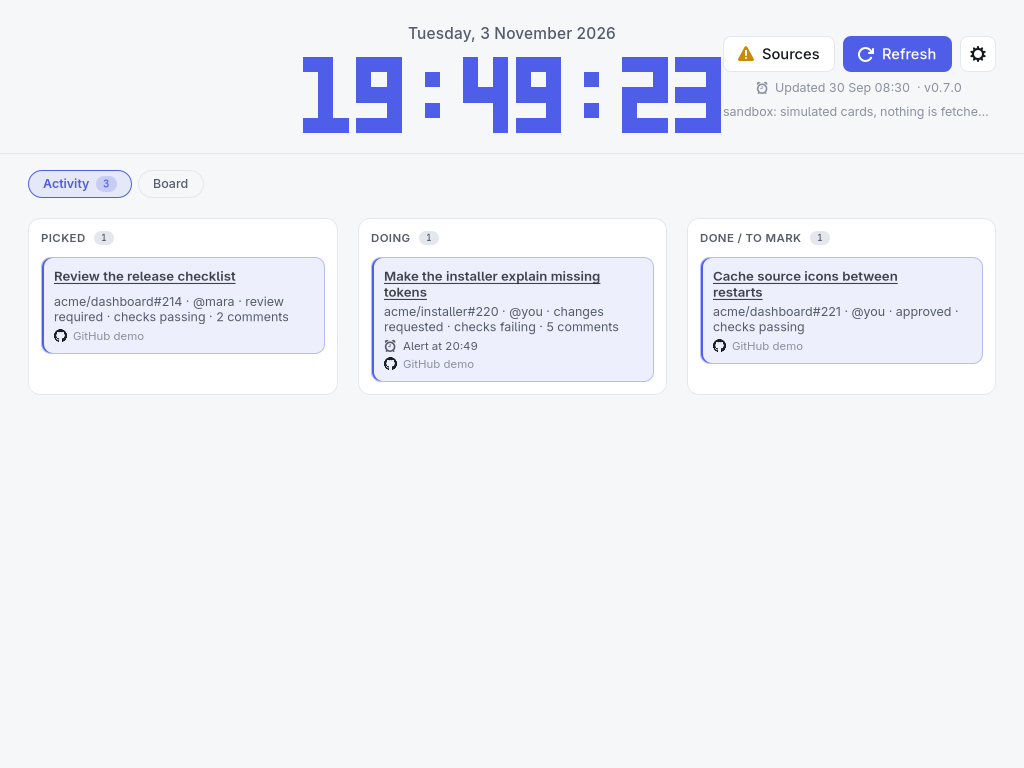
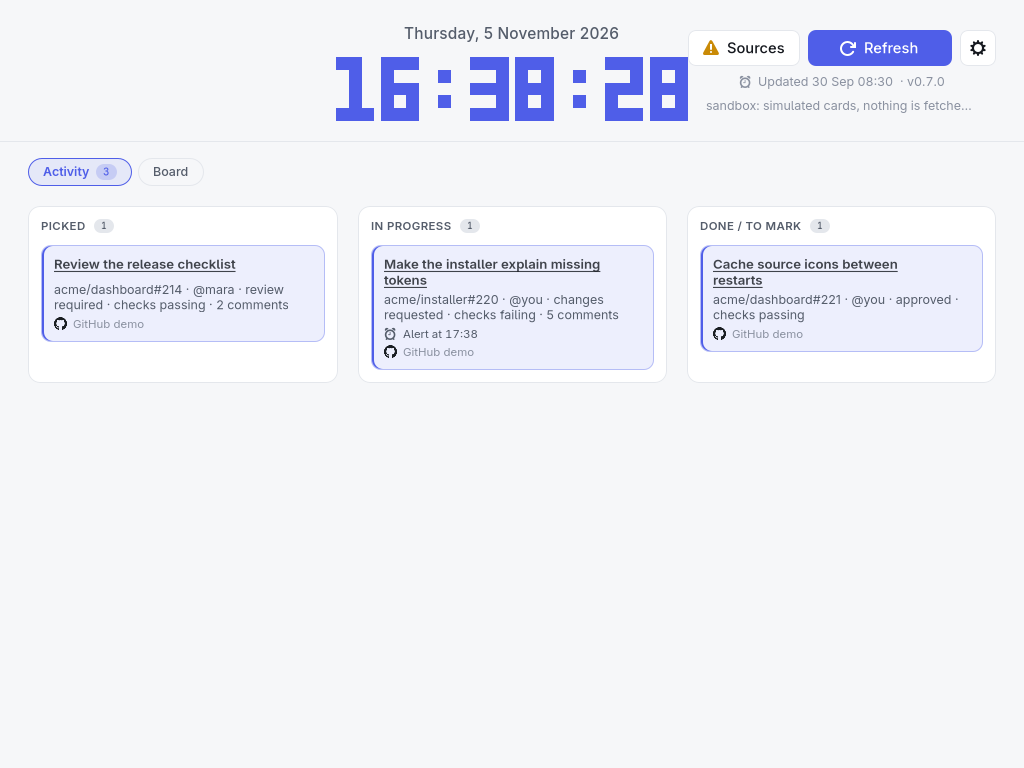
docs: Omarchy theme, In Progress, steady Refresh
The design notes give the palette mixed from an Omarchy theme and the
Refresh button's fixed width, the operations guide and the README the
Theme setting and the renamed stage, and the changelog opens an
Unreleased section. The README pictures are taken again, with one of
the window in a made-up Omarchy theme, which make screenshots now takes.

diff --git a/docs/operations.md b/docs/operations.md
@@ -131,17 +131,17 @@ It shows events that are not over yet, starting within 30 days, at most 25, soon
 
 ## The Window
 
-`tasks-pending` opens the window. It reads the dashboard from the daemon at `http://127.0.0.1:61000` (`--daemon` for another address); when nothing answers there, it starts the sources itself on a loopback port of its own (`--no-daemon` does that on purpose) and the line under the controls says so. `tasks-pending sandbox` opens it over simulated cards and a sample weather, with nothing fetched: every kind of source on two boards, one source degraded on purpose, three cards already along the stages of the Activity and two todos written down; `--screenshot <file>` pictures it and closes, and `--scene` picks what the picture shows (`activity`, the default, `light`, `board`, `sources`, `settings`, `snoozed` or `todo`).
+`tasks-pending` opens the window. It reads the dashboard from the daemon at `http://127.0.0.1:61000` (`--daemon` for another address); when nothing answers there, it starts the sources itself on a loopback port of its own (`--no-daemon` does that on purpose) and the line under the controls says so. `tasks-pending sandbox` opens it over simulated cards and a sample weather, with nothing fetched: every kind of source on two boards, one source degraded on purpose, three cards already along the stages of the Activity and two todos written down; `--screenshot <file>` pictures it and closes, and `--scene` picks what the picture shows (`activity`, the default, `light`, `omarchy` (a made-up Omarchy theme), `board`, `sources`, `settings`, `snoozed` or `todo`).
 
 A big clock sits at the top: the date, then the local time as `HH:MM:SS` in block digits (the "bricks" font of clock-tui), redrawn each second on its own. Next to it are the **Sources**, **Refresh** and settings (gear) buttons, with the time of the last data fetch and the running version (e.g. `v0.6.0`) below them, then `· N snoozed` while cards are snoozed and `· vX.Y.Z available` when the daemon has seen a newer release. There is no header bar: the window is the dashboard.
 
 On Omarchy, a small weather widget sits on the other side of the clock: an icon for the current condition, the temperature, and below them the place and the wind, as `omarchy-weather-status` reports them (set the place with `omarchy-weather-location --set <name>`). It is optional context: it is not shown at all when weather is unavailable (another system, no network, the commands failing), and it leaves windows narrower than 1440 px, so it never takes room from the clock. The window asks the daemon for it on open, every 10 minutes while shown, and when it comes back from being suspended by the compositor.
 
-Under the clock are two tabs: **Activity**, which the window opens on and which counts its cards, and **Board**. On the Board the groups sit side by side in config order, each labelled with its board, wrapping onto more rows when the window is narrow. Inside a group, stacks sit one above another; clicking a stack's name collapses it to its name and count, and clicking again opens it. The gear opens **Settings**: an optional board filter (All, or one board), and a switch for every board, group and stack to show or hide it (hiding a board or group greys out the switches inside it, which keep their own setting). A group whose stacks are all hidden disappears. **Auto-refresh** makes the window ask the daemon to refresh every source every 1 (the default), 5, 15 or 30 minutes, or never; it pauses while the window is suspended, and a source already refreshing finishes before it starts again, so Plane still gets one request at a time. The gear shows a dot while a filter or hidden item is in effect. These choices are remembered in `$XDG_STATE_HOME/tasks-pending/app-view.json` (`~/.local/state` when it is unset); the sandbox and `--screenshot` start from the defaults and save nothing there. Empty stacks are hidden: a button at the right of the group header tells how many there are and shows them, with the source's last fetch time. Stacks show their first five cards, with a button for the rest. Cards show the title (a link when the source has one, opened in the default browser) and at most two lines of the details the source writes, which include the due or event time (the full text is in the tooltip). Each group shows its source's `icon`, fetched by the window, falling back to a generic one.
+Under the clock are two tabs: **Activity**, which the window opens on and which counts its cards, and **Board**. On the Board the groups sit side by side in config order, each labelled with its board, wrapping onto more rows when the window is narrow. Inside a group, stacks sit one above another; clicking a stack's name collapses it to its name and count, and clicking again opens it. The gear opens **Settings**: an optional board filter (All, or one board), and a switch for every board, group and stack to show or hide it (hiding a board or group greys out the switches inside it, which keep their own setting). A group whose stacks are all hidden disappears. **Auto-refresh** makes the window ask the daemon to refresh every source every 1 (the default), 5, 15 or 30 minutes, or never; it pauses while the window is suspended, and a source already refreshing finishes before it starts again, so Plane still gets one request at a time. **Theme** picks the colours: **TasksPending**, the window's own (the default: dark, or light when the system asks), or **Omarchy**, which follows the theme Omarchy applied, read from `~/.local/state/omarchy/current/theme/colors.toml` (`~/.config/omarchy/current/theme` on Omarchy 3). It is dark or light as the theme says, and changes with it when you switch themes in Omarchy. When there is no theme to read, the window keeps its own colours and Settings says why. The sandbox starts with its own colours too; picking Omarchy in its Settings reads your theme like the real window does. The gear shows a dot while a filter or hidden item is in effect. These choices are remembered in `$XDG_STATE_HOME/tasks-pending/app-view.json` (`~/.local/state` when it is unset); the sandbox and `--screenshot` start from the defaults and save nothing there. Empty stacks are hidden: a button at the right of the group header tells how many there are and shows them, with the source's last fetch time. Stacks show their first five cards, with a button for the rest. Cards show the title (a link when the source has one, opened in the default browser) and at most two lines of the details the source writes, which include the due or event time (the full text is in the tooltip). Each group shows its source's `icon`, fetched by the window, falling back to a generic one.
 
 Source health is behind the **Sources** button, which opens a dialog with each source's board, status, last fetch and failure reason, plus a config error when the saved config was not reloaded. The button shows a warning icon when any source is degraded or failed, or the config has an error.
 
-Every card has a three-dot button (shown when the pointer is on the card; the keyboard reaches it too) that opens its menu, which holds every action. **Send to Activity** marks the card as in progress: it stays in its stack, highlighted, and appears on the **Activity** tab; **Remove from Activity** unmarks it. Activity is a board of three stages, **Picked**, **Doing** and **Done / to mark**: a card arrives at Picked, and its menu on that tab moves it to the next stage or back. Activity shows every marked card whatever the board filter and hidden items, with no limit, and when nothing is marked it says so with a link to the Board. Marks are kept by the daemon in `$XDG_STATE_HOME/tasks-pending/marks.json` (next to the cache), so they survive restarts. A mark is dropped on its own when its card is gone after a clean refresh of its source that finished after the card was marked (the item was done elsewhere); while the source is failing, refreshing or showing old data, the mark is kept, and so is the mark of a card that a stack's `exclude` patterns hide. Marks of a source that is not on the dashboard (switched off, or absent from the config in use) are kept for a month, so they are back when the source is. Deleting `marks.json` clears every mark. The stage is the window's own choice: it is kept in `app-view.json` beside the other choices, and dropped when the mark goes, so a card marked again starts at Picked. The tab is not remembered: the window always opens on Activity.
+Every card has a three-dot button (shown when the pointer is on the card; the keyboard reaches it too) that opens its menu, which holds every action. **Send to Activity** marks the card as in progress: it stays in its stack, highlighted, and appears on the **Activity** tab; **Remove from Activity** unmarks it. Activity is a board of three stages, **Picked**, **In Progress** and **Done / to mark**: a card arrives at Picked, and its menu on that tab moves it to the next stage or back. Activity shows every marked card whatever the board filter and hidden items, with no limit, and when nothing is marked it says so with a link to the Board. Marks are kept by the daemon in `$XDG_STATE_HOME/tasks-pending/marks.json` (next to the cache), so they survive restarts. A mark is dropped on its own when its card is gone after a clean refresh of its source that finished after the card was marked (the item was done elsewhere); while the source is failing, refreshing or showing old data, the mark is kept, and so is the mark of a card that a stack's `exclude` patterns hide. Marks of a source that is not on the dashboard (switched off, or absent from the config in use) are kept for a month, so they are back when the source is. Deleting `marks.json` clears every mark. The stage is the window's own choice: it is kept in `app-view.json` beside the other choices, and dropped when the mark goes, so a card marked again starts at Picked. The tab is not remembered: the window always opens on Activity.
 
 On the Board, the menu's **Snooze** entry offers **1 hour**, **Tomorrow** (the next day at 8:00, local time), **Next week** (the next Monday at 8:00; on a Monday, the following one) and **Until it changes**. Whatever the choice, a snoozed card comes back early when its item changes (its last update moves), so snoozing never hides news. Nothing is written to the provider. While cards are snoozed, the quiet `N snoozed` link after the update time opens the list, where **Wake** brings a card back now. Snoozes are kept by the daemon in `$XDG_STATE_HOME/tasks-pending/snoozes.json` and forgotten when the card is finished elsewhere, like marks. A snoozed card keeps its mark, and its stage, and is back on Activity when it wakes.
 
@@ -151,9 +151,9 @@ The Board's first group is **Todo**, for things that come from no source. **New*
 
 A small dot before a card's title means the item changed since you last looked, and the same dot after a stack's count means the stack holds such a card (also when it is collapsed or the card is behind "Show more"). There is no count and no label. "Looking" is doing something in the window: a click, a key, scrolling. Opening the window counts; the pointer merely crossing it, or the window taking focus under it, does not, so the dots are not cleared by accident. When you come back after 10 minutes or more without activity, the dots show what changed since your previous activity; cards that change while you keep using the window get a dot too, and all of them clear the next time you return. A change counts from the moment the dashboard fetched it: an item that changed just before you left, but that its source only refreshed after, is flagged on your return, because it was never on screen. The daemon keeps these times in `$XDG_STATE_HOME/tasks-pending/looks.json`. Activity is reported at most once a minute.
 
-The window reads `/api/v1/snapshot` every 15 seconds while it is not suspended and redraws only when something changed, keeping the scroll position. If the daemon stops answering after a successful load, the last cards stay on screen under a notice. The Refresh button calls `POST /api/v1/refresh` and reads the snapshot again two seconds later. When the daemon refused a refresh you asked for, the button says how long to wait, or a note under the controls says why; a refused auto-refresh shows nothing and is tried again at its next turn. A change that the daemon refuses (a mark that could not be saved, a snooze in the past) shows for a few seconds under the controls.
+The window reads `/api/v1/snapshot` every 15 seconds while it is not suspended and redraws only when something changed, keeping the scroll position. If the daemon stops answering after a successful load, the last cards stay on screen under a notice. The Refresh button calls `POST /api/v1/refresh` and reads the snapshot again two seconds later. When the daemon refused a refresh you asked for, the button says how long to wait (it keeps its width whatever it says), or a note under the controls says why; a refused auto-refresh shows nothing and is tried again at its next turn. A change that the daemon refuses (a mark that could not be saved, a snooze in the past) shows for a few seconds under the controls.
 
-The window is dark unless the system asks for light, with its own palette either way, the system's interface font, and the symbolic icons of the icon theme.
+The window is dark unless the system asks for light, with its own palette (or Omarchy's theme, when Settings says so), the system's interface font, and the symbolic icons of the icon theme.
 
 ## HTTP Endpoints
 

diff --git a/crates/pending-app/DESIGN.md b/crates/pending-app/DESIGN.md
@@ -1,7 +1,7 @@
 ---
 version: alpha
 name: TasksPending window
-description: A quiet board of pending work for a Linux desktop, drawn with GTK4 CSS from the app's own palette.
+description: A quiet board of pending work for a Linux desktop, drawn with GTK4 CSS from the app's own palette, or from Omarchy's theme when asked.
 colors:
   primary: "#7c8cff"
   on-primary: "#ffffff"
@@ -109,17 +109,19 @@ Dark, the default:
 
 Light, when the system asks: Page (#f6f7f9), Group (#ffffff), Card (#f1f3f6), Card hover (#e8ebf0), Border (#e4e7ec), Strong border (#d3d8e0), Text (#15181e), Text 2 (#555d6b), Text 3 (#8a91a0), Accent (#4f5ee8), OK (#16a36a), Warning (#c98a06), Danger (#d9364e).
 
+Omarchy, when chosen in Settings: the theme Omarchy applied, dark or light as its `colors.toml` says. Its background, text and accent are used as they are, and its green, yellow and red for the states (the window's own when it has none). The other colours are mixed from those in the same proportions as the palettes above: the surfaces and borders from the background towards the text (a light theme's group surface towards white), Text 2 and Text 3 from the text towards the background, the accent hover towards white. Text on the accent is white or the theme's dark colour (its background, or its text on a light theme), whichever has more contrast with the accent. The window changes with the theme.
+
 Borders carry the structure; shadows only lift the card menu and the dialogs, and never blur anything behind them.
 
 ## Typography
 
-The system interface font (Adwaita Sans on GNOME, whatever Omarchy sets), never a downloaded one. One family; weight and size do the work: 600 for titles, 400 for bodies, 500 for buttons. Stack names are upper-case at 0.78em with 0.04em tracking, the one label style. Bodies clamp at two lines with the whole text in the tooltip. Numbers in the update line use tabular figures.
+The system interface font (Adwaita Sans on GNOME, whatever Omarchy sets), never a downloaded one. One family; weight and size do the work: 600 for titles, 400 for bodies, 500 for buttons. Stack names are upper-case at 0.78em with 0.04em tracking, the one label style. Bodies clamp at two lines with the whole text in the tooltip. Numbers in the update line and in the controls use tabular figures.
 
 The clock is not text: it is the "bricks" font drawn as blocks (6 wide, 5 tall, each block twice as tall as wide), in the accent colour, filling the width of the hero up to 880px.
 
 ## Layout
 
-Hero: a centre box, weather at the start (hidden under 1440px), the clock in a clamp in the middle, the controls column at the end; 24px top, 28px sides, 20px bottom, a 1px border below. Under it, a row of two tab pills, Activity and Board; Activity carries a count pill when it holds cards. Activity: three stage columns of equal width (Picked, Doing, Done / to mark), at least 240px, 20px apart, each a group-like box with an upper-case title and a count, cards 8px apart; when nothing is picked, one line of Text 3 with a link to the Board. Board: a flow box of groups at least 290px wide, 20px apart, 28px side gutters, wrapping onto more rows when the window is narrow; a group keeps its natural height; the Todo group comes first. Inside a group: a header row (logo in a tile, name, board badge, empty toggle at the end), then stacks 14px apart with a 1px rule between them; cards 8px apart.
+Hero: a centre box, weather at the start (hidden under 1440px), the clock in a clamp in the middle, the controls column at the end; 24px top, 28px sides, 20px bottom, a 1px border below. Under it, a row of two tab pills, Activity and Board; Activity carries a count pill when it holds cards. Activity: three stage columns of equal width (Picked, In Progress, Done / to mark), at least 240px, 20px apart, each a group-like box with an upper-case title and a count, cards 8px apart; when nothing is picked, one line of Text 3 with a link to the Board. Board: a flow box of groups at least 290px wide, 20px apart, 28px side gutters, wrapping onto more rows when the window is narrow; a group keeps its natural height; the Todo group comes first. Inside a group: a header row (logo in a tile, name, board badge, empty toggle at the end), then stacks 14px apart with a 1px rule between them; cards 8px apart.
 
 ## Elevation & Depth
 
@@ -137,10 +139,10 @@ Soft corners: 12px for groups and stage columns, dialog rows at 8px, cards at 10
 - Todo group: the group with a check icon in its tile, a "not saved" badge and a New control; its dialog is two entries, the note about not saving in Text 3, Cancel and the one primary button.
 - Stack header: a flat button with a chevron (rotated when collapsed), the upper-case name, a count pill, and the dot when a card inside changed.
 - Group: group surface, 1px border, 12px radius; the logo sits in a 28px tile on the card surface.
-- Controls: 34px buttons with a 1px border on the group surface; Refresh is the one filled with accent; the gear carries a 7px accent dot while a filter is on.
+- Controls: 34px buttons with a 1px border on the group surface; Refresh is the one filled with accent, and as wide as its longest label ("Refreshing…") whatever it says, its icon and label centred, so nothing beside it moves; the gear carries a 7px accent dot while a filter is on.
 - Notices: a bordered box tinted 8% with the state colour (warning for stale data, danger for no data).
 - Status chip (Sources dialog): the state colour as text on a 10% tint with a 25% ring, pill shaped.
-- Dialogs: group surface, a flat header bar, 20px side padding, rows as bordered boxes; filters as pills that fill with the accent tint when active; switches in libadwaita's own style with the accent.
+- Dialogs: group surface, a flat header bar, 20px side padding, rows as bordered boxes; filters as pills that fill with the accent tint when active (Settings: Board, Auto-refresh, Theme, then the show or hide switches; under the themes, while following Omarchy, one line in Text 3 names the theme or says why there is none); switches in libadwaita's own style with the accent.
 - Empty state: a dashed 1px border, 8px radius, a check icon and "Nothing pending." in Text 3.
 
 ## Motion

diff --git a/README.md b/README.md
@@ -4,7 +4,7 @@
 
 TasksPending is a local-first dashboard of your pending work: pull requests, issues, tasks and events from the tools you use, in one native Linux window. A small daemon refreshes the sources in the background; the window reads it.
 
-![TasksPending with simulated cards: a clock and weather, and the Activity tab with the picked cards in three stages, Picked, Doing and Done / to mark](docs/assets/tasks-pending-sandbox.png)
+![TasksPending with simulated cards: a clock and weather, and the Activity tab with the picked cards in three stages, Picked, In Progress and Done / to mark](docs/assets/tasks-pending-sandbox.png)
 
 Every picture here comes from `tasks-pending sandbox`, which shows simulated cards without any configuration or credentials; `make screenshots` regenerates them.
 
@@ -12,12 +12,13 @@ Every picture here comes from `tasks-pending sandbox`, which shows simulated car
 
 - **One group per source, in your order.** GitHub, GitLab, Jira, Linear, Plane, Todoist, Google Calendar and iCal feeds, each with its logo. Inside a group, every stack is a filter you declare in the config; stacks collapse, and long ones show their first cards.
 - **What to do next.** GitHub pull requests are split by next action (review requested, returned to you, ready to merge, not approved yet, drafts), with review state, checks and comment counts on the card.
-- **Activity.** Send the cards you are working on to the Activity tab, a board of three stages: Picked, Doing, Done / to mark. The window opens on it; the Board tab holds the groups, where the picked cards stay highlighted.
+- **Activity.** Send the cards you are working on to the Activity tab, a board of three stages: Picked, In Progress, Done / to mark. The window opens on it; the Board tab holds the groups, where the picked cards stay highlighted.
 - **One menu per card.** Every action sits behind a three-dot button on the card: send to Activity, move between stages, snooze, alert, and for a todo edit and delete.
 - **Snooze.** Hide a card for an hour, until tomorrow, until next week, or until it changes. It always comes back when the item changes, and nothing is written to the provider.
 - **Alerts.** Ask to be alerted about a card in 15 minutes, 30 minutes, an hour or three hours: when the time comes, a desktop notification names it, and clicking it brings the window up.
 - **Todos.** Write down something that comes from no source: it is a card like the others, in a Todo group on the Board, and it lasts only while the window is open.
 - **What changed.** A small dot marks the cards that changed since you last looked.
+- **Omarchy's theme.** The window has its own palette, dark unless the system asks for light. On Omarchy, Settings can switch it to the theme Omarchy applied, and it changes with it.
 - **Local only.** The daemon listens on this machine, reads tokens from the environment, and keeps your marks and snoozes in a state folder. The window reads it over loopback; it reaches the network itself only for the sources' logos, and for the providers when no daemon is running and it runs the sources in its own process.
 
 <p align="center">
@@ -27,7 +28,7 @@ Every picture here comes from `tasks-pending sandbox`, which shows simulated car
 
 <p align="center">
   <img src="docs/assets/tasks-pending-sources.png" alt="The Sources dialog: each source with its board, status and last fetch" width="49%">
-  <img src="docs/assets/tasks-pending-settings.png" alt="The Settings dialog: board filter, auto-refresh and show or hide switches" width="49%">
+  <img src="docs/assets/tasks-pending-settings.png" alt="The Settings dialog: board filter, auto-refresh, theme and show or hide switches" width="49%">
 </p>
 
 <p align="center">
@@ -35,7 +36,11 @@ Every picture here comes from `tasks-pending sandbox`, which shows simulated car
   <img src="docs/assets/tasks-pending-sandbox-light.png" alt="The same window in the light scheme" width="49%">
 </p>
 
-The window is dark unless the system asks for light, with its own palette either way.
+<p align="center">
+  <img src="docs/assets/tasks-pending-omarchy.png" alt="The same window following an Omarchy theme: its background, text and accent, the rest mixed from them" width="49%">
+</p>
+
+The window is dark unless the system asks for light, with its own palette either way, or follows Omarchy's theme when Settings says so.
 
 ## Install
 

diff --git a/AGENTS.md b/AGENTS.md
@@ -22,7 +22,7 @@ Use the vocabulary in `crates/pending-core`: `DashboardSnapshot`, `Board` (a fil
 - `make up`: run the daemon on `127.0.0.1:61000`.
 - `make app`: open the window (over the daemon when it runs, else over the sources).
 - `make sandbox`: open the window over deterministic simulated cards, without reading config, credentials, cache, or external sources.
-- `make screenshots`: regenerate the README pictures in `docs/assets` from the sandbox window (`tasks-pending sandbox --screenshot <file> --scene activity|light|board|sources|settings|snoozed|todo`); run it after a change that alters how the window looks. It needs a display that is drawing frames (not one on DPMS off). Without one, GTK's Broadway backend works headless at 1024×768: `gtk4-broadwayd :5 &` then `GDK_BACKEND=broadway BROADWAY_DISPLAY=:5 make screenshots`.
+- `make screenshots`: regenerate the README pictures in `docs/assets` from the sandbox window (`tasks-pending sandbox --screenshot <file> --scene activity|light|omarchy|board|sources|settings|snoozed|todo`); run it after a change that alters how the window looks. It needs a display that is drawing frames (not one on DPMS off). Without one, GTK's Broadway backend works headless at 1024×768: `gtk4-broadwayd :5 &` then `GDK_BACKEND=broadway BROADWAY_DISPLAY=:5 make screenshots`.
 - `make changelog-check`: check `CHANGELOG.md`'s sections (and run that check's own harness, `scripts/test-check-changelog.sh`).
 - `make install-test` / `make release-installer-test` / `make release-assets-test`: validate the source installer, the public release installer and its stable download aliases without network access or changes to the machine.
 - `make dependabot-issues-test`: check `scripts/dependabot-issues.sh` against a stand-in `gh`.
@@ -47,7 +47,7 @@ Do not treat `make ci` as read-only; it runs formatters. Use `make ci-check` whe
 
 GTK4 and libadwaita, through `gtk4-rs` and `libadwaita-rs` without a component framework. The oldest supported versions are GTK 4.14 and libadwaita 1.5 (Ubuntu 24.04, where CI builds); do not use newer API without raising the crate features and the documented minimum.
 
-Visual style: simple and quiet, described in `crates/pending-app/DESIGN.md` (read it before changing how the window looks). Colours come from the app's own palette in `crates/pending-app/src/theme.rs` (dark by default, light when the system asks), filled into `crates/pending-app/src/style.css`; no Omarchy or GTK theme colours. Icons are the system's symbolic icons (names present in Adwaita and Yaru); source logos are fetched from their configured URL. Cards carry no severity colour or label. Thin 1px borders over shadows, one accent, 6/12/18 px rhythm.
+Visual style: simple and quiet, described in `crates/pending-app/DESIGN.md` (read it before changing how the window looks). Colours come from the app's own palette in `crates/pending-app/src/theme.rs` (dark by default, light when the system asks), filled into `crates/pending-app/src/style.css`; Settings can switch to Omarchy's theme, read from its `colors.toml` and mixed in the same proportions (`theme::parse_omarchy`). Never GTK theme colours. A new colour is a token in both: the `Palette`, its value in `DARK` and `LIGHT`, and its mix from an Omarchy theme. Icons are the system's symbolic icons (names present in Adwaita and Yaru); source logos are fetched from their configured URL. Cards carry no severity colour or label. Thin 1px borders over shadows, one accent, 6/12/18 px rhythm.
 
 The app's tests need no display (CI has none): what they check lives outside the widgets, in `present`, `state`, `view` and `backend`, against a stand-in daemon on a loopback port. Widget lifetimes (closures that capture a widget hold it alive: capture it weakly when the widget owns the closure) and keyboard focus (never `can_focus(false)` on a container, which shuts its children out) are checked by hand on a display.
 

diff --git a/docs/architecture.md b/docs/architecture.md
@@ -52,7 +52,7 @@ The last good batch of every source is written to a JSON cache (`$XDG_STATE_HOME
 
 `pending-client` is that path: one method per route, over loopback only, sending the header the state-changing routes require. The default address, the header, the refresh cooldown and its 429 answer, and the answers of `/healthz` and `/api/v1/version` are declared once, in `pending-core::api`, for both sides.
 
-`pending-app` is the GTK4 window. `present::page` turns a snapshot and the user's `View` (board filter, collapsed stacks, hidden items) into what to draw, with no widgets involved, and is tested that way; `ui` rebuilds the widgets whenever that page changes and keeps the hero (clock, weather, controls) updated in place. A worker on the Tokio runtime runs the window's commands against the client one at a time and sends events back to the GTK thread. The stylesheet is generated from the app's own palette (dark or light, following the system) because GTK CSS has no variables on every version the app supports.
+`pending-app` is the GTK4 window. `present::page` turns a snapshot and the user's `View` (board filter, collapsed stacks, hidden items) into what to draw, with no widgets involved, and is tested that way; `ui` rebuilds the widgets whenever that page changes and keeps the hero (clock, weather, controls) updated in place. A worker on the Tokio runtime runs the window's commands against the client one at a time and sends events back to the GTK thread. The stylesheet is generated from the app's own palette (dark or light, following the system), or from Omarchy's theme when Settings asks for it (`theme.rs`), because GTK CSS has no variables on every version the app supports.
 
 ## Sources Available
 

diff --git a/CHANGELOG.md b/CHANGELOG.md
@@ -1,5 +1,16 @@
 # Changelog
 
+## Unreleased
+
+### Features
+
+- **Theme** in Settings: **TasksPending**, the window's own colours and still the default, or **Omarchy**, which follows the theme Omarchy applied (dark or light as the theme says) and changes with it when you switch themes. The colours Omarchy's `colors.toml` does not name are mixed from its background, text and accent in the same proportions as the window's own palette. Text on the accent is white or dark, whichever stands out more on it. The choice is kept in `app-view.json`.
+
+### Changed
+
+- The Activity stage Doing is now **In Progress**. Cards moved there in 0.7.0 stay there.
+- The Refresh button keeps one width whatever it says, so nothing beside it moves while it refreshes or waits; a refused refresh now reads "Wait 7s".
+
 ## 0.7.0
 
 The window opens on the work in progress: an Activity board in three stages, one menu per card, alerts as desktop notifications, and todos kept for as long as the window is open.
